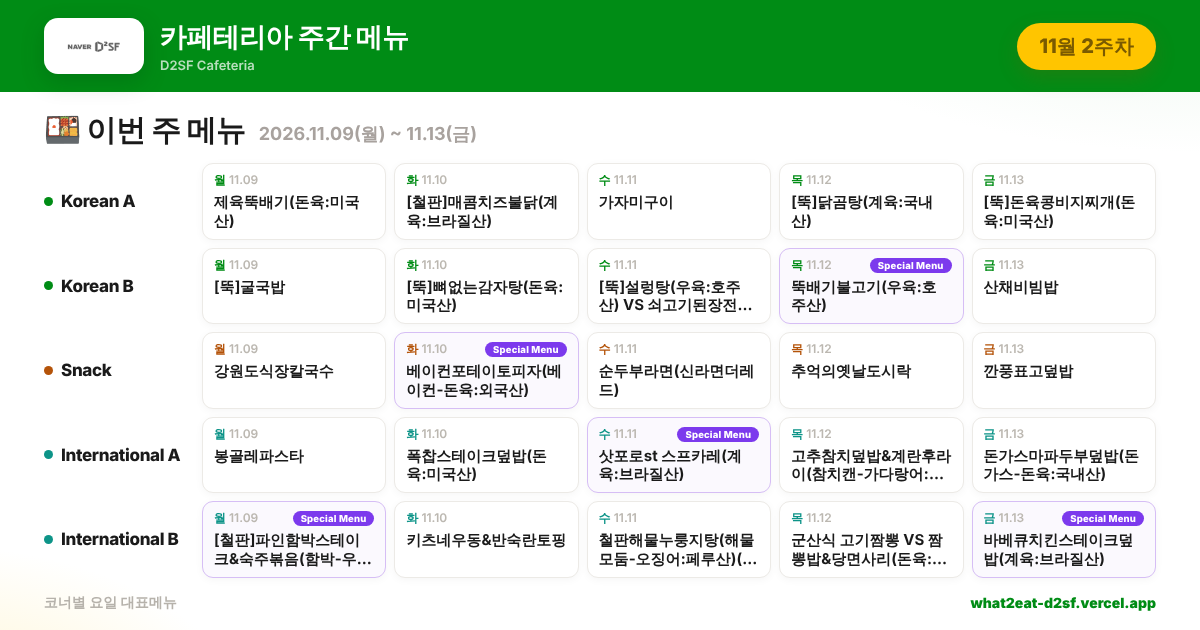
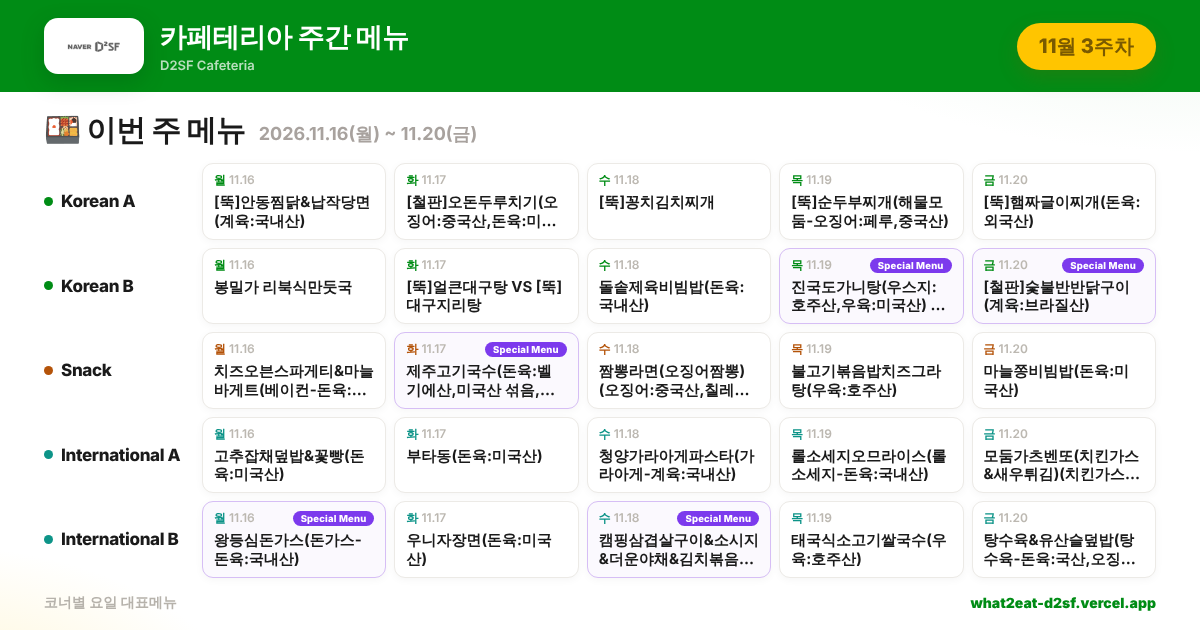
식단 추가: 11월 4주차(2026.11.23~11.27) 2026-w25
화재서초 게시판 11-4 식단표 이미지 전사.

Claude-Session: https://claude.ai/code/session_01CCk7kE6nDbFDt1BnXJzGQQ

diff --git a/src/data/menu-2026-w25.js b/src/data/menu-2026-w25.js
@@ -1,0 +1,122 @@
+// ─────────────────────────────────────────────────────────────
+// 지하식당 주간 식단 — 2026년 11월 4주차 (2026.11.23~11.27)
+// ※ 월~금 5일 전체 운영 (미운영 코너 없음)
+// 출처: 화재서초 게시판 11-4 식단표 (붙여넣은 이미지 전사)
+// 칼로리(kcal)는 1인분 추정치이며 실제 제공량과 다를 수 있습니다.
+// ─────────────────────────────────────────────────────────────
+
+const S = (meal, day, corner, price, cuisine, items, tag = null, side = false) => ({
+  meal,
+  day,
+  corner,
+  price,
+  cuisine,
+  items,
+  tag,
+  side,
+});
+
+const days = [
+  ["월", "11.23"],
+  ["화", "11.24"],
+  ["수", "11.25"],
+  ["목", "11.26"],
+  ["금", "11.27"],
+];
+
+const sets = [
+  // ───────── 조식 ─────────
+  S("조식", "월", "백반", 9400, "한식", [["[뚝]부추백합탕", 120], ["현미밥", 300], ["매콤우삼겹볶음(우육:호주산)", 300], ["도토리묵&양념장", 80], ["돌자반", 30], ["포기김치 / 오렌지", 60]]),
+  S("조식", "화", "백반", 9400, "한식", [["[뚝]얼큰감자수제비", 450], ["현미밥", 300], ["삼치구이", 250], ["팽이버섯볶음", 90], ["미나리무침", 50], ["포기김치 / 양상추샐러드", 60]]),
+  S("조식", "수", "백반", 9400, "한식", [["[뚝]조갯살된장찌개", 150], ["현미밥", 300], ["떡갈비조림(돈육:국내산)", 300], ["계란후라이", 100], ["간장깻잎지", 30], ["포기김치 / 마시는요구르트", 80]]),
+  S("조식", "목", "백반", 9400, "한식", [["[뚝]매생이떡국", 350], ["현미밥", 300], ["개성무찜(돈육:미국산,계육:브라질산)", 300], ["멸치볶음", 100], ["오이지무침", 40], ["깍두기 / 사과", 60]]),
+  S("조식", "금", "백반", 9400, "한식", [["[뚝]북어채미역국", 100], ["현미밥", 300], ["고추장닭불고기(계육:브라질산)", 300], ["탕평채", 90], ["유채나물", 50], ["깍두기 / 식혜", 80]]),
+  S("조식", "월", "라면코너", 7700, "분식", [["라면(신라면)", 500], ["단무지", 20], ["포기김치", 15], ["김밥 반줄(햄-계육,돈육:국산)", 200]]),
+  S("조식", "화", "라면코너", 7700, "분식", [["라면(진짬뽕)", 500], ["단무지", 20], ["포기김치", 15], ["김밥 반줄(햄-계육,돈육:국산)", 200]]),
+  S("조식", "수", "라면코너", 7700, "분식", [["라면(열라면)", 500], ["단무지", 20], ["포기김치", 15], ["김밥 반줄(햄-계육,돈육:국산)", 200]]),
+  S("조식", "목", "라면코너", 7700, "분식", [["라면(삼양라면)", 500], ["단무지", 20], ["포기김치", 15], ["김밥 반줄(햄-계육,돈육:국산)", 200]]),
+  S("조식", "금", "라면코너", 7700, "분식", [["라면(안성탕면)", 500], ["단무지", 20], ["포기김치", 15], ["김밥 반줄(햄-계육,돈육:국산)", 200]]),
+
+  // ───────── 중식 ─────────
+  S("중식", "월", "Korean A", 9400, "한식", [["[뚝]전주식콩나물국밥&수란(오징어:국내산)", 350], ["흑미밥", 310], ["완자전&케찹", 200], ["오징어젓갈(오징어젓:중국산)", 50], ["김구이", 30], ["깍두기", 20]]),
+  S("중식", "화", "Korean A", 9400, "한식", [["[철판]고추장오리불고기(오리:중국산)", 300], ["차조밥 / 미역국", 310], ["두부계란전&양념장", 200], ["삼색겨자냉채", 60], ["포기김치", 15]], "단가"),
+  S("중식", "수", "Korean A", 9400, "한식", [["[뚝]청국장찌개(돈육:미국산)", 150], ["부추비빔밥&계란후라이", 500], ["감자전", 200], ["올방개묵무침", 60], ["오이생채", 40], ["깍두기", 20]]),
+  S("중식", "목", "Korean A", 9400, "한식", [["[뚝]닭볶음탕(계육:국내산)", 350], ["수수밥", 310], ["콩나물맑은국", 80], ["연근튀김", 200], ["마늘종고추장무침", 60], ["깍두기", 20]]),
+  S("중식", "금", "Korean A", 9400, "한식", [["[은냉면기]뿌리채소영양밥", 450], ["매콤오징어볶음(오징어:중국산)", 250], ["다시마무챗국", 80], ["부추전", 200], ["청경채겉절이", 50], ["포기김치", 15]]),
+
+  S("중식", "월", "Korean B", 9900, "한식", [["[솥밥]옥수수버터솥밥", 450], ["솎음배추된장국", 100], ["돼지고기김치볶음(돈육:미국산)", 300], ["느타리버섯볶음 / 오이지무침", 90], ["깍두기", 20]], "welgreen"),
+  S("중식", "화", "Korean B", 9900, "한식", [["시래기황태국밥", 450], ["차조밥", 310], ["버섯탕수", 250], ["환어묵볶음 / 삼색겨자냉채", 150], ["석박지", 20]], "맛집"),
+  S("중식", "수", "Korean B", 9900, "한식", [["[뚝]불고기낙지전골(우육:호주산,낙지:베트남산)", 300], ["귀리밥", 310], ["꼬마돈가스&케찹(돈육,계육:국내산)", 250], ["고구마순볶음", 60], ["오이생채 / 포기김치", 40]], "단가"),
+  S("중식", "목", "Korean B", 9900, "한식", [["NEW 더덕비빔밥", 500], ["콩나물맑은국", 80], ["깻잎고기전", 200], ["무들깨나물 / 마늘종고추장무침", 60], ["포기김치", 15]], "welgreen"),
+  S("중식", "금", "Korean B", 9900, "한식", [["[뚝]즉석부대찌개&라면사리(계육,돈육:국산)(로스팜-돈육:외국산)(사골농축액-한우사골/모둠뼈:국산)", 350], ["기장밥", 310], ["계란말이", 150], ["가지볶음 / 청경채겉절이", 80], ["열무김치", 20]]),
+
+  S("중식", "월", "Snack", 8800, "분식", [["흑임자크림수제비(베이컨-돈육:미국산)", 500], ["닭강정(계육:국내산)", 250], ["양상추샐러드&오렌지D", 100], ["오이피클", 20], ["탄산음료", 100]]),
+  S("중식", "화", "Snack", 8800, "분식", [["즉석김치우동", 500], ["유부초밥", 300], ["지마구튀김", 200], ["양상추샐러드&포도D", 100], ["꼬들단무지", 20]]),
+  S("중식", "수", "Snack", 8800, "양식", [["대패삼겹살리조또(돈육:독일산)", 500], ["유부장국", 80], ["해쉬브라운", 200], ["양상추샐러드&발사믹D", 100], ["할라피뇨", 20]]),
+  S("중식", "목", "Snack", 8800, "분식", [["라볶이&계란튀김", 500], ["김밥반줄(햄-계육,돈육:국산)", 200], ["순대찜", 200], ["단무지", 20], ["쥬시쿨", 60]]),
+  S("중식", "금", "Snack", 8800, "양식", [["김페스토파스타", 500], ["브라운브레드&버터", 200], ["양상추샐러드&사우전D", 100], ["오이피클", 20], ["탄산음료", 100]], "건강"),
+
+  S("중식", "월", "International A", 9400, "기타", [["인도식마크니커리&갈릭버터난", 560], ["두부장국", 80], ["탄두리치킨(계육:브라질산)", 300], ["야채준권&칠리S", 200], ["포기김치 / 플레인요거트", 80]], "단가"),
+  S("중식", "화", "International A", 9400, "양식", [["빠에야볶음밥(해물모둠-오징어:페루산)", 560], ["팽이버섯장국", 80], ["꿀대구스테이크", 250], ["양배추샐러드&참깨D", 100], ["오이피클", 20]]),
+  S("중식", "수", "International A", 9400, "일식", [["함바그동&계란후라이(함박-우육:호주산,뉴질랜드산,돈육:국산)", 560], ["유부장국", 80], ["고구마범벅", 200], ["양상추샐러드&딸기D", 100], ["깍두기", 20]]),
+  S("중식", "목", "International A", 9400, "양식", [["상하이파스타(오징어:칠레산)", 560], ["납작감자구이&스리라차마요S", 200], ["양상추샐러드&오리엔탈D", 100], ["할라피뇨", 20], ["탄산음료", 100]]),
+  S("중식", "금", "International A", 9400, "한식", [["눈꽃치즈제육덮밥&계란후라이(돈육:미국산)", 560], ["우동국", 80], ["매콤핫바&허니머스타드D", 200], ["양상추샐러드&발사믹D", 100], ["깍두기", 20]]),
+
+  S("중식", "월", "International B", 9900, "중식", [["홍콩식새우완탕면", 500], ["굴소스볶음밥", 450], ["어향가지", 200], ["단무지", 20], ["포기김치", 15]]),
+  S("중식", "화", "International B", 9900, "한식", [["들기름막국수", 450], ["팽이버섯장국", 80], ["숯불돼지불고기(돈육:미국산)", 300], ["양배추샐러드&참깨D", 100], ["냉면김치", 20]]),
+  S("중식", "수", "International B", 9900, "일식", [["돈코츠라멘(돈육:미국산) VS 베이컨소유라면(베이컨-돈육:외국산)", 540], ["후리가케양념밥", 400], ["타마야끼(가스오부시-가다랑어:원양산)", 150], ["양상추샐러드&딸기D", 100], ["깍두기", 20]]),
+  S("중식", "목", "International B", 9900, "중식", [["마라탕(우육:호주산)", 450], ["쌀밥", 300], ["꿔바로우(돈육:국내산)", 250], ["파이황과(중국식오이무침)", 60], ["깍두기", 20]], "단가"),
+  S("중식", "금", "International B", 9900, "양식", [["NEW 그릴드트러플머쉬룸버거(떡갈비-돈육,우육,계육:국내산)", 560], ["샐러드파스타", 250], ["치즈스틱&케찹", 200], ["코울슬로 / 탄산음료", 100]], "단가"),
+
+  S("중식", "월", "추가배식대", 0, "기타", [["찐빵튀김", 200]], null, true),
+  S("중식", "화", "추가배식대", 0, "기타", [["자몽", 60]], null, true),
+  S("중식", "수", "추가배식대", 0, "기타", [["나쵸칩&살사소스", 200]], null, true),
+  S("중식", "목", "추가배식대", 0, "기타", [["고구마맛탕", 200]], null, true),
+  S("중식", "금", "추가배식대", 0, "기타", [["팥춘권", 150]], null, true),
+
+  // ───────── 석식 ─────────
+  S("석식", "월", "Korean B", 9900, "한식", [["깍두기불고기볶음밥&계란후라이(우육:호주산)", 560], ["우동국", 80], ["단호박고로케&케찹", 200], ["양배추샐러드&드레싱", 100], ["포기김치 / 방울토마토", 60]]),
+  S("석식", "화", "Korean B", 9900, "한식", [["[뚝]버섯만두전골(김치만두-배추:국내산,고춧가루:중국산)", 300], ["잡곡밥", 310], ["오징어파전(오징어파전:중국산)", 200], ["땅콩조림", 90], ["상추겉절이", 40], ["깍두기 / 미니크림슈", 120]]),
+  S("석식", "수", "Korean B", 9900, "일식", [["토리동(닭조림덮밥)(계육:브라질산)", 560], ["두부김칫국", 80], ["멘치가스&돈가스소스(멘치가스-돈육,계육:국내산)", 250], ["고들단무지", 20], ["양상추샐러드&드레싱", 100], ["깍두기 / 푸딩", 120]]),
+  S("석식", "목", "Korean B", 9900, "한식", [["[뚝]비지찌개(돈육:미국산)", 150], ["잡곡밥", 310], ["꽈리고추계란장조림", 150], ["어묵볶음", 150], ["고춧잎무침", 50], ["깍두기 / 오렌지", 60]]),
+  S("석식", "금", "Korean B", 9900, "일식", [["돈가스하이라이스&계란후라이(돈가스-돈육:국내산)", 560], ["일식장국", 80], ["소떡소떡", 200], ["양배추샐러드&드레싱", 100], ["포기김치 / 식혜", 80]]),
+  S("석식", "월", "Snack", 8800, "분식", [["떡라면(참깨라면)", 520], ["김밥반줄(햄-계육,돈육:국산)", 200], ["파래연근튀김", 200], ["단무지 / 포기김치", 20]]),
+  S("석식", "화", "Snack", 8800, "분식", [["해물라면(너구리라면)", 520], ["김밥반줄(햄-계육,돈육:국산)", 200], ["순대강정", 200], ["단무지 / 포기김치", 20]]),
+  S("석식", "수", "Snack", 8800, "분식", [["치즈라면(안성탕면)", 520], ["김밥반줄(햄-계육,돈육:국산)", 200], ["명란마요튀김(명란마요튀김:러시아산)", 200], ["단무지 / 포기김치", 20]]),
+  S("석식", "목", "Snack", 8800, "분식", [["토핑선택라면(진라면)", 520], ["김밥반줄(햄-계육,돈육:국산)", 200], ["군만두", 200], ["단무지 / 포기김치", 20]]),
+  S("석식", "금", "Snack", 8800, "분식", [["콩나물라면(오징어짬뽕)", 540], ["김밥반줄(햄-계육,돈육:국산)", 200], ["치즈볼", 200], ["단무지 / 포기김치", 20]]),
+
+  // ───────── 테이크아웃 (요일별 회전) ─────────
+  S("테이크아웃", "월", "김밥SET", 8800, "분식", [["깻잎쌈제육김밥&웰빙가김밥(햄-계육,돈육:국산)(돈육:국내산)", 450]]),
+  S("테이크아웃", "화", "김밥SET", 8800, "분식", [["새우튀김김밥&웰빙가김밥(햄-계육,돈육:국산)", 450]]),
+  S("테이크아웃", "수", "김밥SET", 8800, "분식", [["참치묵은지김밥&웰빙가김밥(햄-계육,돈육:국산)(참치캔-가다랑어:원양산)", 450]]),
+  S("테이크아웃", "목", "김밥SET", 8800, "분식", [["크래미마요김밥&웰빙가김밥(햄-계육,돈육:국산)(명태연육:미국산)", 450]]),
+  S("테이크아웃", "금", "김밥SET", 8800, "분식", [["매콤어묵김밥&웰빙가김밥(햄-계육,돈육:국산)", 450]]),
+  S("테이크아웃", "월", "샌드위치", 8800, "양식", [["풀드포크샌드위치(풀드포크-돈육:미국산)", 450], ["포테이토햄샌드위치(햄-돈육:외국산,국내산)", 450]]),
+  S("테이크아웃", "화", "샌드위치", 8800, "양식", [["크로와상에그듬뿍샌드위치", 450], ["단호박햄치즈샌드위치(햄-돈육:외국산,국내산)", 450]]),
+  S("테이크아웃", "수", "샌드위치", 8800, "양식", [["바베큐치킨파니니(계육:국내산)", 450], ["스위트포테이토샌드위치(햄-돈육:외국산,국내산)", 450]]),
+  S("테이크아웃", "목", "샌드위치", 8800, "양식", [["필리스머쉬룸샌드위치(우육:호주산)", 450], ["계맛살샐러드햄샌드위치(햄-돈육:외국산,국내산)", 450]]),
+  S("테이크아웃", "금", "샌드위치", 8800, "양식", [["대파크림치즈파니니", 460], ["모닝롤샌드위치(돈육:외국산,국산/우육:호주산,국산)", 450]]),
+];
+
+const staticTakeout = [
+  ["커리닭가슴살샐러드(계육:국내산)", "양식", 280, 8800],
+  ["크랜베리시저치킨샐러드(NEW)(계육:국내산)", "양식", 250, 8800],
+  ["콩고기샐러드", "양식", 200, 8800],
+  ["유부초밥&와사비크림새우(게맛살-명태연육:미국산)(참치캔-가다랑어:원양산)", "일식", 480, 8800],
+  ["아보카도훈제연어샐러드", "양식", 320, 8800],
+  ["시리얼&우유&사이드2개", "양식", 350, 8800], ["요거트시리얼&사이드메뉴", "양식", 300, 8800], ["올가니카&사이드메뉴", "양식", 300, 8800],
+  ["선식&사이드메뉴", "한식", 250, 8800], ["과일팩(5종)", "기타", 120, 8800],
+  ["건강죽 택1 (누룽지닭백숙/쇠고기/전복/참치/버섯야채)(오징어젓:중국산)", "한식", 250, 8800],
+  ["머슬랭Pack(연어&치킨)(계육:국내산,닭가슴살양배추쌈볼:중국산)", "양식", 400, 9400],
+  ["헬핏도시락(닭가슴살포케)(계육:국내산)", "양식", 400, 9400],
+];
+
+export const week = {
+  id: "2026-w25",
+  label: "11월 4주차",
+  range: "2026.11.23(월) ~ 11.27(금)",
+  days,
+  sets,
+  staticTakeout,
+};

diff --git a/index.html b/index.html
@@ -20,13 +20,13 @@
     <meta property="og:url" content="https://what2eat-d2sf.vercel.app/" />
     <meta property="og:title" content="D2SF 카페테리아 — 이번 주 메뉴" />
     <meta property="og:description" content="🍴 오늘 뭐 먹지? 메뉴 검색부터 칼로리 분석까지, 점심 고민은 여기서 끝" />
-    <meta property="og:image" content="https://what2eat-d2sf.vercel.app/api/og?v=2026-w24-mweajayw" />
+    <meta property="og:image" content="https://what2eat-d2sf.vercel.app/api/og?v=2026-w25-mwoj2yxs" />
     <meta property="og:image:width" content="1200" />
     <meta property="og:image:height" content="630" />
     <meta name="twitter:card" content="summary_large_image" />
     <meta name="twitter:title" content="D2SF 카페테리아 — 이번 주 메뉴" />
     <meta name="twitter:description" content="🍴 오늘 뭐 먹지? 메뉴 검색부터 칼로리 분석까지, 점심 고민은 여기서 끝" />
-    <meta name="twitter:image" content="https://what2eat-d2sf.vercel.app/api/og?v=2026-w24-mweajayw" />
+    <meta name="twitter:image" content="https://what2eat-d2sf.vercel.app/api/og?v=2026-w25-mwoj2yxs" />
     <!-- /OG -->
   </head>
   <body>

diff --git a/src/data/index.js b/src/data/index.js
@@ -7,6 +7,7 @@
 //   import { week as w2026w3 } from "./menu-2026-w3.js";
 //   export const weeks = [w2026w3, w2026w2];
 
+import { week as w2026w25 } from "./menu-2026-w25.js";
 import { week as w2026w24 } from "./menu-2026-w24.js";
 import { week as w2026w23 } from "./menu-2026-w23.js";
 import { week as w2026w22 } from "./menu-2026-w22.js";
@@ -32,4 +33,4 @@ import { week as w2026w3 } from "./menu-2026-w3.js";
 import { week as w2026w2 } from "./menu-2026-w2.js";
 
 // 최신 주차를 배열 맨 앞에 두세요. weeks[0] 이 기본 선택됩니다.
-export const weeks = [w2026w24, w2026w23, w2026w22, w2026w21, w2026w20, w2026w19, w2026w18, w2026w17, w2026w16, w2026w15, w2026w14, w2026w13, w2026w12, w2026w11, w2026w10, w2026w9, w2026w8, w2026w7, w2026w6, w2026w5, w2026w4, w2026w3, w2026w2];
+export const weeks = [w2026w25, w2026w24, w2026w23, w2026w22, w2026w21, w2026w20, w2026w19, w2026w18, w2026w17, w2026w16, w2026w15, w2026w14, w2026w13, w2026w12, w2026w11, w2026w10, w2026w9, w2026w8, w2026w7, w2026w6, w2026w5, w2026w4, w2026w3, w2026w2];
